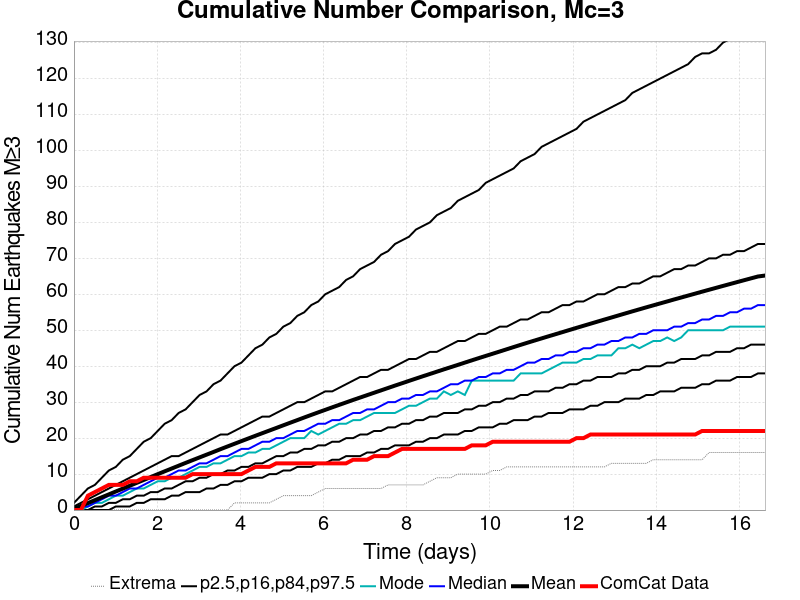
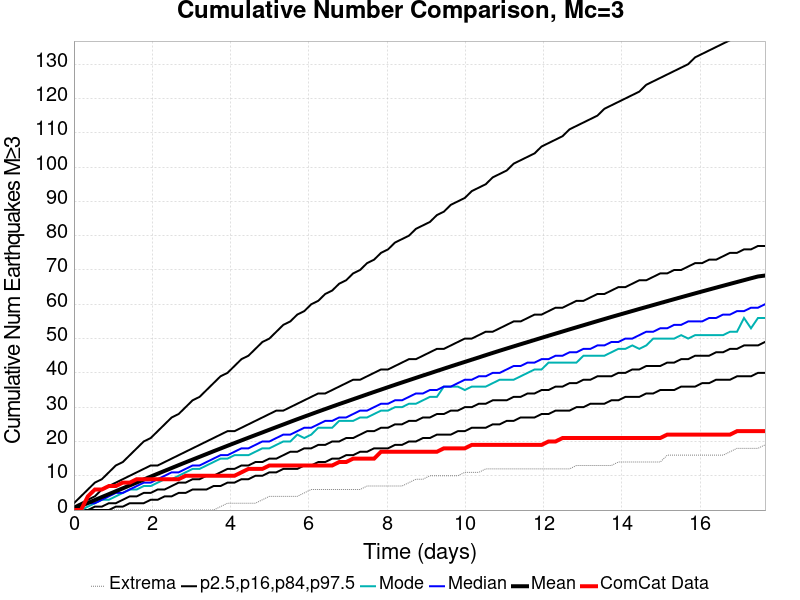
automatic plot and index update from opensha.usc.edu

diff --git a/2019_07_25-ComCatM7p1_ci38457511_19p6DaysAfter_ShakeMapSurfaces-noSpont-full_td-scale1.14/index.html b/2019_07_25-ComCatM7p1_ci38457511_19p6DaysAfter_ShakeMapSurfaces-noSpont-full_td-scale1.14/index.html
@@ -761,15 +761,15 @@ img {
 <p><em><a href="#table-of-contents">(top)</a></em></p>
 <table>
 <thead>
-<tr><th></th><th>1 Day</th><th>1 Week</th><th>16.6 Day</th></tr>
+<tr><th></th><th>1 Day</th><th>1 Week</th><th>17.7 Day</th></tr>
 </thead>
 <tbody>
-<tr><td><strong>M≥3</strong></td><td><img src="plots/comcat_compare_mean_1d_m3.png" alt="Map" /></td><td><img src="plots/comcat_compare_mean_1wk_m3.png" alt="Map" /></td><td><img src="plots/comcat_compare_mean_16.6d_m3.png" alt="Map" /></td></tr>
-<tr><td><strong>M≥4</strong></td><td><img src="plots/comcat_compare_mean_1d_m4.png" alt="Map" /></td><td><img src="plots/comcat_compare_mean_1wk_m4.png" alt="Map" /></td><td><img src="plots/comcat_compare_mean_16.6d_m4.png" alt="Map" /></td></tr>
-<tr><td><strong>M≥5</strong></td><td><img src="plots/comcat_compare_mean_1d_m5.png" alt="Map" /></td><td><img src="plots/comcat_compare_mean_1wk_m5.png" alt="Map" /></td><td><img src="plots/comcat_compare_mean_16.6d_m5.png" alt="Map" /></td></tr>
-<tr><td><strong>M≥6</strong></td><td><img src="plots/comcat_compare_mean_1d_m6.png" alt="Map" /></td><td><img src="plots/comcat_compare_mean_1wk_m6.png" alt="Map" /></td><td><img src="plots/comcat_compare_mean_16.6d_m6.png" alt="Map" /></td></tr>
-<tr><td><strong>M≥7</strong></td><td><img src="plots/comcat_compare_mean_1d_m7.png" alt="Map" /></td><td><img src="plots/comcat_compare_mean_1wk_m7.png" alt="Map" /></td><td><img src="plots/comcat_compare_mean_16.6d_m7.png" alt="Map" /></td></tr>
-<tr><td><strong>M≥8</strong></td><td><img src="plots/comcat_compare_mean_1d_m8.png" alt="Map" /></td><td><img src="plots/comcat_compare_mean_1wk_m8.png" alt="Map" /></td><td><img src="plots/comcat_compare_mean_16.6d_m8.png" alt="Map" /></td></tr>
+<tr><td><strong>M≥3</strong></td><td><img src="plots/comcat_compare_mean_1d_m3.png" alt="Map" /></td><td><img src="plots/comcat_compare_mean_1wk_m3.png" alt="Map" /></td><td><img src="plots/comcat_compare_mean_17.7d_m3.png" alt="Map" /></td></tr>
+<tr><td><strong>M≥4</strong></td><td><img src="plots/comcat_compare_mean_1d_m4.png" alt="Map" /></td><td><img src="plots/comcat_compare_mean_1wk_m4.png" alt="Map" /></td><td><img src="plots/comcat_compare_mean_17.7d_m4.png" alt="Map" /></td></tr>
+<tr><td><strong>M≥5</strong></td><td><img src="plots/comcat_compare_mean_1d_m5.png" alt="Map" /></td><td><img src="plots/comcat_compare_mean_1wk_m5.png" alt="Map" /></td><td><img src="plots/comcat_compare_mean_17.7d_m5.png" alt="Map" /></td></tr>
+<tr><td><strong>M≥6</strong></td><td><img src="plots/comcat_compare_mean_1d_m6.png" alt="Map" /></td><td><img src="plots/comcat_compare_mean_1wk_m6.png" alt="Map" /></td><td><img src="plots/comcat_compare_mean_17.7d_m6.png" alt="Map" /></td></tr>
+<tr><td><strong>M≥7</strong></td><td><img src="plots/comcat_compare_mean_1d_m7.png" alt="Map" /></td><td><img src="plots/comcat_compare_mean_1wk_m7.png" alt="Map" /></td><td><img src="plots/comcat_compare_mean_17.7d_m7.png" alt="Map" /></td></tr>
+<tr><td><strong>M≥8</strong></td><td><img src="plots/comcat_compare_mean_1d_m8.png" alt="Map" /></td><td><img src="plots/comcat_compare_mean_1wk_m8.png" alt="Map" /></td><td><img src="plots/comcat_compare_mean_17.7d_m8.png" alt="Map" /></td></tr>
 </tbody>
 </table>
 <h3 id="comcat-depth-distribution">ComCat Depth Distribution</h3>

diff --git a/index.html b/index.html
@@ -28,7 +28,7 @@ img {
 <tr><td>2019/08/09</td><td><a href="2019_08_09-ComCatM7p1_ci38457511_ShakeMapSurfaces_NoERT-noSpont-no_ert/index.html">ComCat M7.1 (ci38457511), ShakeMap Surfaces, NoERT</a></td><td>2019/07/05</td><td>100000</td><td>Done</td><td>2019/08/09</td></tr>
 <tr><td>2019/08/03</td><td><a href="2019_08_03-ComCatM7p1_ci38457511_28DaysAfter_ShakeMapSurfaces-noSpont-full_td-scale1.14/index.html">ComCat M7.1 (ci38457511), 28 Days After, ShakeMap Surfaces</a></td><td>2019/08/02</td><td>100000</td><td>Done</td><td>2019/08/11</td></tr>
 <tr><td>2019/07/27</td><td><a href="2019_07_27-ComCatM7p1_ci38457511_21DaysAfter_ShakeMapSurfaces-noSpont-full_td-scale1.14/index.html">ComCat M7.1 (ci38457511), 21 Days After, ShakeMap Surfaces</a></td><td>2019/07/26</td><td>100000</td><td>Done</td><td>2019/08/11</td></tr>
-<tr><td>2019/07/25</td><td><a href="2019_07_25-ComCatM7p1_ci38457511_19p6DaysAfter_ShakeMapSurfaces-noSpont-full_td-scale1.14/index.html">ComCat M7.1 (ci38457511), 19.6 Days After, ShakeMap Surfaces</a></td><td>2019/07/25</td><td>100000</td><td>Done</td><td>2019/08/11</td></tr>
+<tr><td>2019/07/25</td><td><a href="2019_07_25-ComCatM7p1_ci38457511_19p6DaysAfter_ShakeMapSurfaces-noSpont-full_td-scale1.14/index.html">ComCat M7.1 (ci38457511), 19.6 Days After, ShakeMap Surfaces</a></td><td>2019/07/25</td><td>100000</td><td>Done</td><td>2019/08/12</td></tr>
 <tr><td>2019/07/18</td><td><a href="2019_07_18-ComCatM7p1_ci38457511_InvertedSurface_ShakeMapSurface-noSpont-full_td-scale1.14/index.html">ComCat M7.1 (ci38457511), Inverted Surface, ShakeMap Surface</a></td><td>2019/07/05</td><td>100000</td><td>Done</td><td>2019/08/05</td></tr>
 <tr><td>2019/07/16</td><td><a href="2019_07_16-ComCatM7p1_ci38457511_11DaysAfter_ShakeMapSurfaces-noSpont-full_td-scale1.14/index.html">ComCat M7.1 (ci38457511), 11 Days After, ShakeMap Surfaces</a></td><td>2019/07/16</td><td>100000</td><td>Done</td><td>2019/08/11</td></tr>
 <tr><td>2019/07/16</td><td><a href="2019_07_16-ComCatM7p1_ci38457511_7DaysAfter_ShakeMapSurfaces-noSpont-full_td-scale1.14/index.html">ComCat M7.1 (ci38457511), 7 Days After, ShakeMap Surfaces</a></td><td>2019/07/12</td><td>100000</td><td>Done</td><td>2019/08/11</td></tr>

diff --git a/2019_07_25-ComCatM7p1_ci38457511_19p6DaysAfter_ShakeMapSurfaces-noSpont-full_td-scale1.14/README.md b/2019_07_25-ComCatM7p1_ci38457511_19p6DaysAfter_ShakeMapSurfaces-noSpont-full_td-scale1.14/README.md
@@ -703,14 +703,14 @@ These plots compare simulated sequences with data from ComCat. All plots only co
 ### ComCat Mean Spatial Distribution
 *[(top)](#table-of-contents)*
 
-|  | 1 Day | 1 Week | 16.6 Day |
+|  | 1 Day | 1 Week | 17.7 Day |
 |-----|-----|-----|-----|
-| **M≥3** | ![Map](plots/comcat_compare_mean_1d_m3.png) | ![Map](plots/comcat_compare_mean_1wk_m3.png) | ![Map](plots/comcat_compare_mean_16.6d_m3.png) |
-| **M≥4** | ![Map](plots/comcat_compare_mean_1d_m4.png) | ![Map](plots/comcat_compare_mean_1wk_m4.png) | ![Map](plots/comcat_compare_mean_16.6d_m4.png) |
-| **M≥5** | ![Map](plots/comcat_compare_mean_1d_m5.png) | ![Map](plots/comcat_compare_mean_1wk_m5.png) | ![Map](plots/comcat_compare_mean_16.6d_m5.png) |
-| **M≥6** | ![Map](plots/comcat_compare_mean_1d_m6.png) | ![Map](plots/comcat_compare_mean_1wk_m6.png) | ![Map](plots/comcat_compare_mean_16.6d_m6.png) |
-| **M≥7** | ![Map](plots/comcat_compare_mean_1d_m7.png) | ![Map](plots/comcat_compare_mean_1wk_m7.png) | ![Map](plots/comcat_compare_mean_16.6d_m7.png) |
-| **M≥8** | ![Map](plots/comcat_compare_mean_1d_m8.png) | ![Map](plots/comcat_compare_mean_1wk_m8.png) | ![Map](plots/comcat_compare_mean_16.6d_m8.png) |
+| **M≥3** | ![Map](plots/comcat_compare_mean_1d_m3.png) | ![Map](plots/comcat_compare_mean_1wk_m3.png) | ![Map](plots/comcat_compare_mean_17.7d_m3.png) |
+| **M≥4** | ![Map](plots/comcat_compare_mean_1d_m4.png) | ![Map](plots/comcat_compare_mean_1wk_m4.png) | ![Map](plots/comcat_compare_mean_17.7d_m4.png) |
+| **M≥5** | ![Map](plots/comcat_compare_mean_1d_m5.png) | ![Map](plots/comcat_compare_mean_1wk_m5.png) | ![Map](plots/comcat_compare_mean_17.7d_m5.png) |
+| **M≥6** | ![Map](plots/comcat_compare_mean_1d_m6.png) | ![Map](plots/comcat_compare_mean_1wk_m6.png) | ![Map](plots/comcat_compare_mean_17.7d_m6.png) |
+| **M≥7** | ![Map](plots/comcat_compare_mean_1d_m7.png) | ![Map](plots/comcat_compare_mean_1wk_m7.png) | ![Map](plots/comcat_compare_mean_17.7d_m7.png) |
+| **M≥8** | ![Map](plots/comcat_compare_mean_1d_m8.png) | ![Map](plots/comcat_compare_mean_1wk_m8.png) | ![Map](plots/comcat_compare_mean_17.7d_m8.png) |
 
 ### ComCat Depth Distribution
 *[(top)](#table-of-contents)*

diff --git a/README.md b/README.md
@@ -5,7 +5,7 @@
 | 2019/08/09 | [ComCat M7.1 (ci38457511), ShakeMap Surfaces, NoERT](2019_08_09-ComCatM7p1_ci38457511_ShakeMapSurfaces_NoERT-noSpont-no_ert/README.md) | 2019/07/05 | 100000 | Done | 2019/08/09 |
 | 2019/08/03 | [ComCat M7.1 (ci38457511), 28 Days After, ShakeMap Surfaces](2019_08_03-ComCatM7p1_ci38457511_28DaysAfter_ShakeMapSurfaces-noSpont-full_td-scale1.14/README.md) | 2019/08/02 | 100000 | Done | 2019/08/11 |
 | 2019/07/27 | [ComCat M7.1 (ci38457511), 21 Days After, ShakeMap Surfaces](2019_07_27-ComCatM7p1_ci38457511_21DaysAfter_ShakeMapSurfaces-noSpont-full_td-scale1.14/README.md) | 2019/07/26 | 100000 | Done | 2019/08/11 |
-| 2019/07/25 | [ComCat M7.1 (ci38457511), 19.6 Days After, ShakeMap Surfaces](2019_07_25-ComCatM7p1_ci38457511_19p6DaysAfter_ShakeMapSurfaces-noSpont-full_td-scale1.14/README.md) | 2019/07/25 | 100000 | Done | 2019/08/11 |
+| 2019/07/25 | [ComCat M7.1 (ci38457511), 19.6 Days After, ShakeMap Surfaces](2019_07_25-ComCatM7p1_ci38457511_19p6DaysAfter_ShakeMapSurfaces-noSpont-full_td-scale1.14/README.md) | 2019/07/25 | 100000 | Done | 2019/08/12 |
 | 2019/07/18 | [ComCat M7.1 (ci38457511), Inverted Surface, ShakeMap Surface](2019_07_18-ComCatM7p1_ci38457511_InvertedSurface_ShakeMapSurface-noSpont-full_td-scale1.14/README.md) | 2019/07/05 | 100000 | Done | 2019/08/05 |
 | 2019/07/16 | [ComCat M7.1 (ci38457511), 11 Days After, ShakeMap Surfaces](2019_07_16-ComCatM7p1_ci38457511_11DaysAfter_ShakeMapSurfaces-noSpont-full_td-scale1.14/README.md) | 2019/07/16 | 100000 | Done | 2019/08/11 |
 | 2019/07/16 | [ComCat M7.1 (ci38457511), 7 Days After, ShakeMap Surfaces](2019_07_16-ComCatM7p1_ci38457511_7DaysAfter_ShakeMapSurfaces-noSpont-full_td-scale1.14/README.md) | 2019/07/12 | 100000 | Done | 2019/08/11 |
